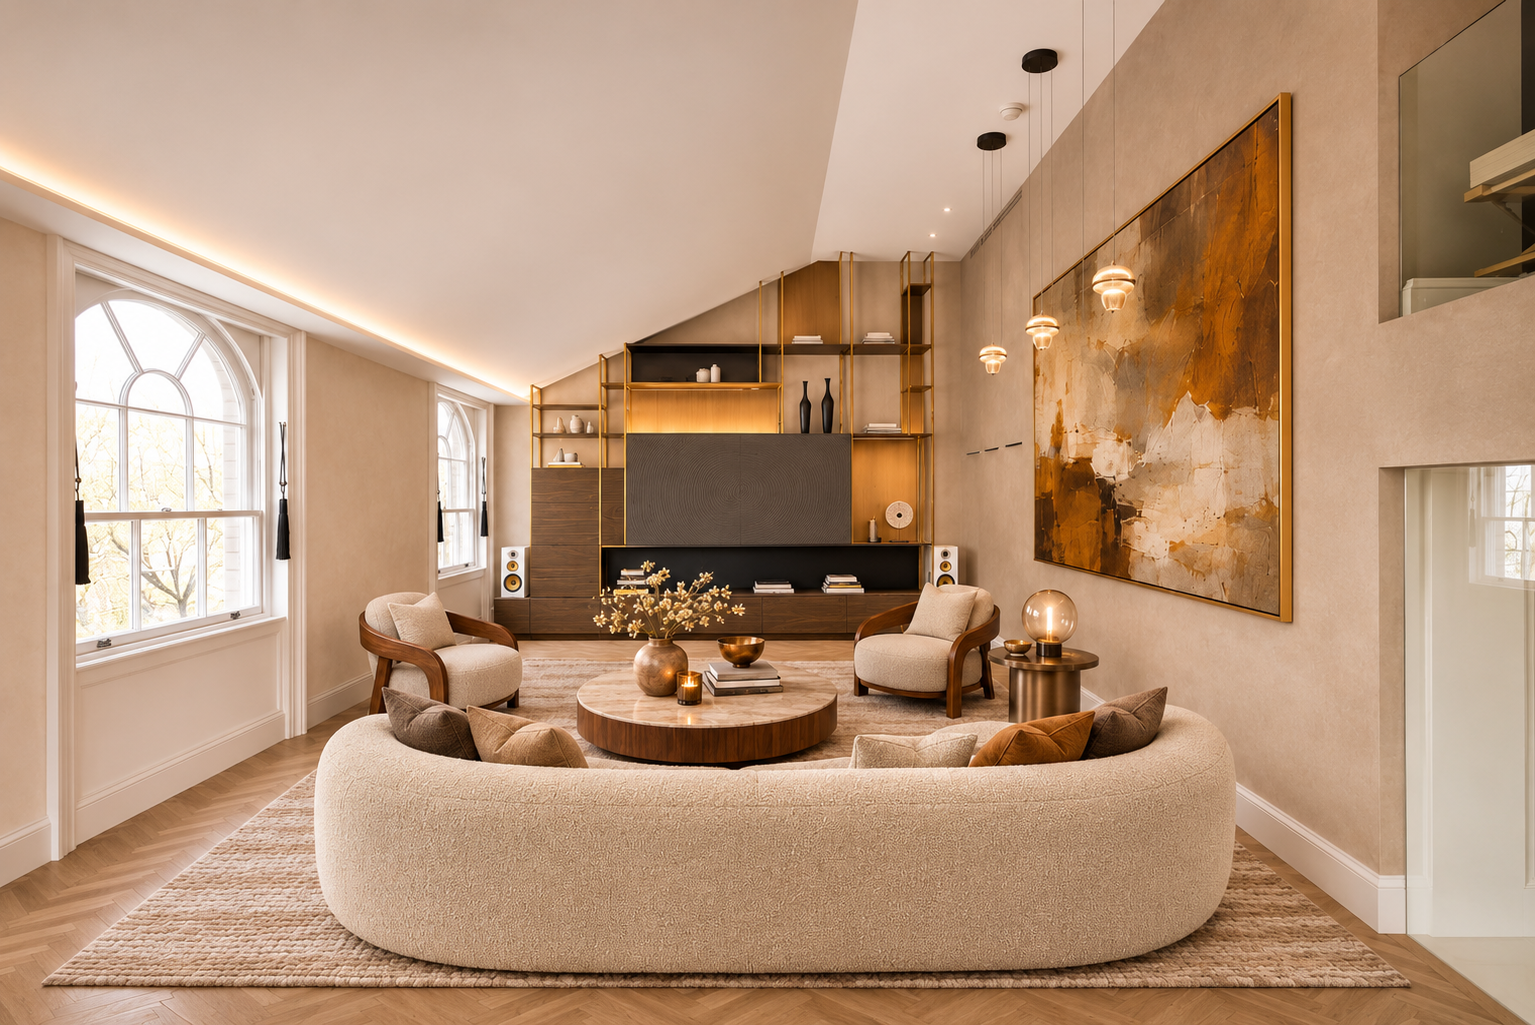
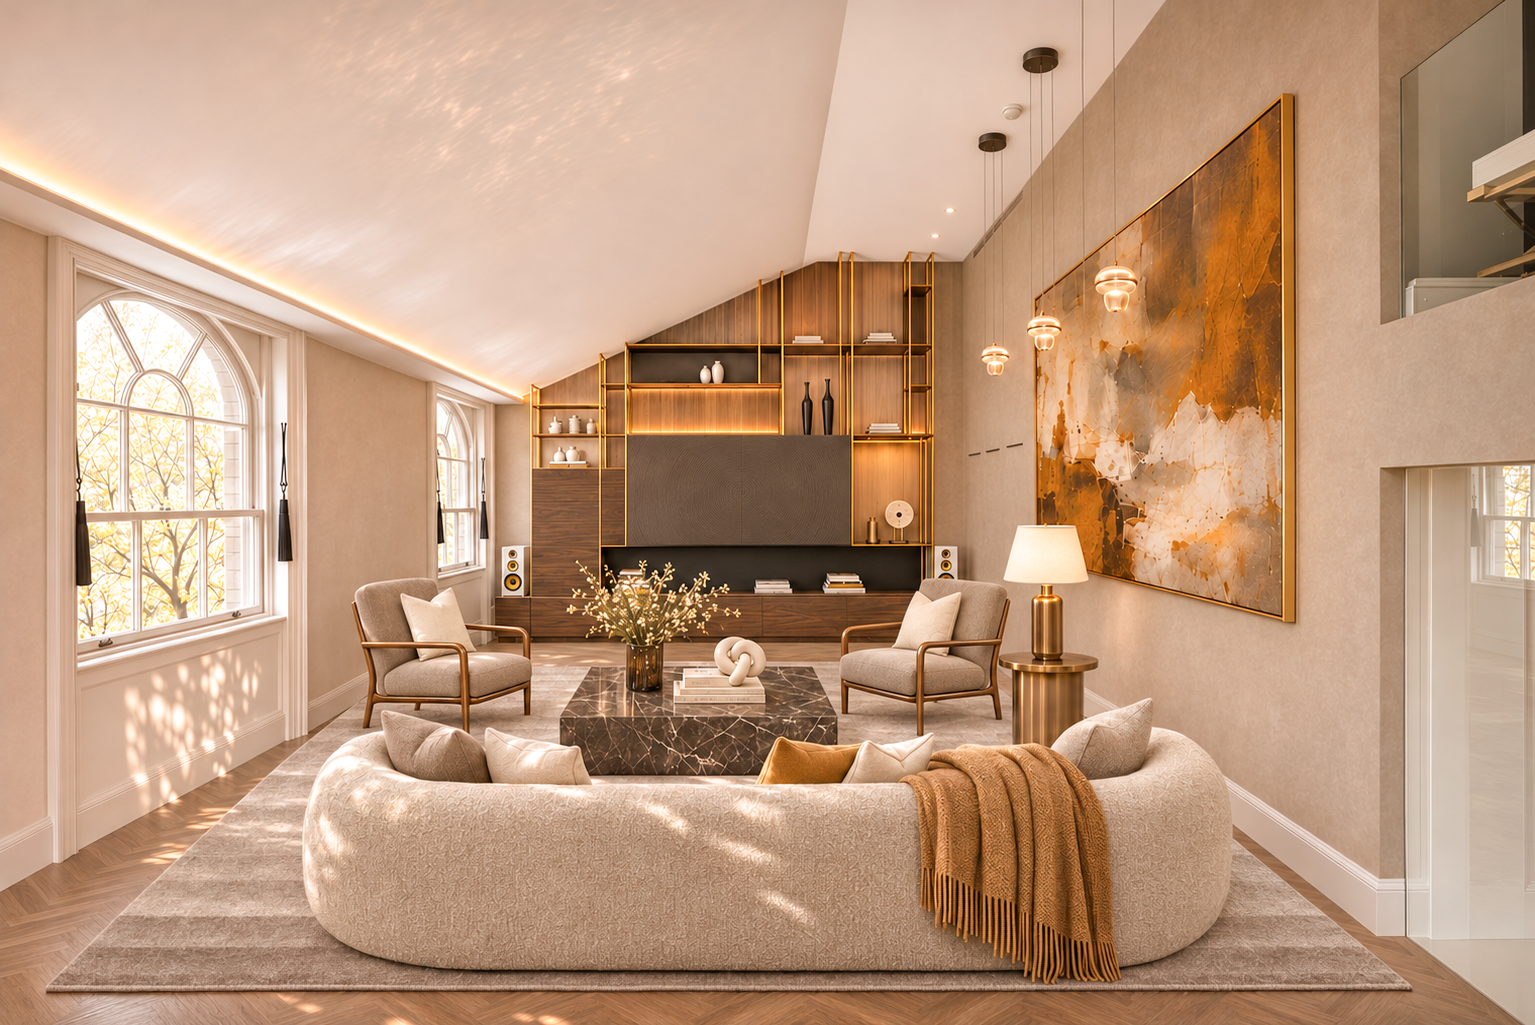
Use final 98 Portland Place renders in brochure and project page
- brochure-src/renders: final renders (Lighter versions of 1.83, 3.7, 5.3,
  7.3, 9.3; 22.3 study).
- brochure.html: re-crop the cover (table and chandelier right of the
  title), kitchen (bring in the staircase), principal bedroom (bed clear of
  the text panel) and study (show the artwork); rewrite the study sentence,
  since the new render has gilded-line walls and a figurative artwork
  rather than an ink-wash wallcovering.
- build.py: also export "98PP Brochure - Print.pdf", A4 at 300 dpi
  (separate 3.125x render); web pages and the screen PDF are unchanged.
- /98pp/: rebuilt from the above.
- Project page: regenerate the living/dining, reception, kitchen and
  study images under new names, update their alt text and the study
  sentence in the body.

diff --git a/brochure-src/brochure.html b/brochure-src/brochure.html
@@ -33,7 +33,7 @@ p{font-size:12.6px;line-height:1.9;color:#4a443d}
 
 <!-- 01 COVER -->
 <div class="page" id="p1">
- <div class="ph" style="inset:0;background-image:url(renders/01-living-dining.png)"></div>
+ <div class="ph" style="inset:0;background-image:url(renders/01-living-dining.png);background-size:auto 960px;background-position:0% 55%"></div>
  <div style="position:absolute;inset:0;background:linear-gradient(90deg,rgba(24,21,18,.86) 0%,rgba(24,21,18,.62) 45%,rgba(24,21,18,.15) 72%,rgba(24,21,18,0) 85%)"></div>
  <div class="frame"></div>
  <div class="eb" style="position:absolute;left:72px;top:70px;color:#d9c29a">Marylebone · London W1</div>
@@ -86,7 +86,7 @@ p{font-size:12.6px;line-height:1.9;color:#4a443d}
 
 <!-- 05 KITCHEN -->
 <div class="page" id="p5">
- <div class="ph" style="right:0;top:0;width:640px;height:794px;background-image:url(renders/07-kitchen-bronze.png);background-size:auto 794px;background-position:48% 50%"></div>
+ <div class="ph" style="right:0;top:0;width:640px;height:794px;background-image:url(renders/07-kitchen-bronze.png);background-size:auto 794px;background-position:59% 50%"></div>
  <div style="position:absolute;left:72px;top:110px;width:350px">
   <div class="eb">Kitchen</div><div class="rule"></div>
   <h2 class="disp" style="font-size:52px">The heart of <i>the home</i></h2><div style="height:22px"></div>
@@ -97,7 +97,7 @@ p{font-size:12.6px;line-height:1.9;color:#4a443d}
 
 <!-- 06 PRINCIPAL BEDROOM -->
 <div class="page" id="p6">
- <div class="ph" style="inset:0;background-image:url(renders/20-principal-bedroom.png);background-position:40% 55%"></div>
+ <div class="ph" style="inset:0;background-image:url(renders/20-principal-bedroom.png);background-size:auto 860px;background-position:0% 55%"></div>
  <div class="box" style="left:56px;bottom:56px">
   <div class="eb">Principal Suite</div><h2 class="disp">A private <i>retreat</i></h2>
   <p>A serene principal bedroom with an upholstered headboard wall and bespoke storage, opening through to its own sitting room and bathroom.</p>
@@ -128,11 +128,11 @@ p{font-size:12.6px;line-height:1.9;color:#4a443d}
 
 <!-- 09 STUDY & GUEST EN SUITE -->
 <div class="page" id="p9" style="background:#fff">
- <div class="ph" style="left:0;top:0;width:561px;height:600px;background-image:url(renders/22-study.png);background-size:auto 600px;background-position:40% 50%"></div>
+ <div class="ph" style="left:0;top:0;width:561px;height:600px;background-image:url(renders/22-study.png);background-size:auto 600px;background-position:12% 50%"></div>
  <div class="ph" style="left:562px;top:0;width:561px;height:600px;background-image:url(renders/14-guest-ensuite.png);background-size:auto 600px;background-position:62% 50%"></div>
  <div style="position:absolute;left:72px;top:636px;width:440px">
   <div class="eb">Study</div>
-  <p style="margin-top:10px">A quiet study landing wrapped in a hand-painted ink-wash landscape wallcovering.</p>
+  <p style="margin-top:10px">A quiet study landing, its walls traced with flowing gilded lines beneath a striking figurative artwork.</p>
  </div>
  <div style="position:absolute;left:634px;top:636px;width:420px">
   <div class="eb">Guest En Suite</div>

diff --git a/brochure-src/build.py b/brochure-src/build.py
@@ -2,41 +2,53 @@
 Usage:  python3 build.py
 Needs:  pip install playwright pillow && python3 -m playwright install chromium
 Output: out/98pp/   (upload this folder to the website as /98pp/)
-        out/98PP Brochure.pdf   (print/email version)
+        out/98PP Brochure.pdf   (email/screen version, 192 dpi)
+        out/98PP Brochure - Print.pdf   (print version, A4 at 300 dpi)
 """
 import asyncio, os, pathlib, shutil, re
 from playwright.async_api import async_playwright
 from PIL import Image
 HERE = pathlib.Path(__file__).resolve().parent
-OUT = HERE / 'out'; WEB = OUT / '98pp'; RAW = OUT / 'raw'
+OUT = HERE / 'out'; WEB = OUT / '98pp'; RAW = OUT / 'raw'; RAW_PRINT = OUT / 'raw-print'
+# Pages are 1123 x 794 CSS px (A4 landscape at 96 px/in). Web pages and the
+# screen PDF render at 2x (192 dpi). The print PDF renders at 300/96 = 3.125x,
+# which makes each page 3509 x 2481 px: A4 (297 x 210 mm) at 300 dpi.
+WEB_SCALE = 2
+PRINT_DPI = 300
+PRINT_SCALE = PRINT_DPI / 96
 
-async def render():
+async def render(scale, dest):
     async with async_playwright() as p:
         b = await p.chromium.launch(executable_path=os.environ.get('CHROME_PATH') or None)
-        pg = await b.new_page(viewport={'width': 1123, 'height': 794}, device_scale_factor=2)
+        pg = await b.new_page(viewport={'width': 1123, 'height': 794}, device_scale_factor=scale)
         await pg.goto((HERE / 'brochure.html').as_uri()); await pg.wait_for_timeout(1500)
         ids = await pg.eval_on_selector_all('.page', 'els => els.map(e => e.id)')
         for i, pid in enumerate(ids, 1):
-            await pg.locator('#' + pid).screenshot(path=str(RAW / f'p{i}.png'))
+            await pg.locator('#' + pid).screenshot(path=str(dest / f'p{i}.png'))
         await b.close()
         return len(ids)
 
 def main():
-    shutil.rmtree(OUT, ignore_errors=True); (WEB / 'pages').mkdir(parents=True); RAW.mkdir()
-    n = asyncio.run(render())
+    shutil.rmtree(OUT, ignore_errors=True); (WEB / 'pages').mkdir(parents=True); RAW.mkdir(); RAW_PRINT.mkdir()
+    n = asyncio.run(render(WEB_SCALE, RAW))
     imgs = []
     for i in range(1, n + 1):
         im = Image.open(RAW / f'p{i}.png').convert('RGB'); imgs.append(im)
         im.resize((1600, 1131), Image.LANCZOS).save(WEB / 'pages' / f'p{i}.jpg', quality=84)
-    imgs[0].save(OUT / '98PP Brochure.pdf', save_all=True, append_images=imgs[1:], resolution=192)
+    imgs[0].save(OUT / '98PP Brochure.pdf', save_all=True, append_images=imgs[1:], resolution=96 * WEB_SCALE)
+    # Print PDF: a separate high-resolution render, used for this file only.
+    asyncio.run(render(PRINT_SCALE, RAW_PRINT))
+    prints = [Image.open(RAW_PRINT / f'p{i}.png').convert('RGB') for i in range(1, n + 1)]
+    prints[0].save(OUT / '98PP Brochure - Print.pdf', save_all=True, append_images=prints[1:],
+                   resolution=PRINT_DPI, quality=95)
     # viewer: one <div class="page"> per page image
     tpl = (HERE / 'viewer' / 'index.template.html').read_text()
     pages = '\n'.join(f'<div class="page"><img src="pages/p{i}.jpg" alt="Page {i}"></div>' for i in range(1, n + 1))
     html = re.sub(r'(<div id="book">).*?(</div></template>)', lambda m: m.group(1) + '\n' + pages + '\n' + m.group(2), tpl, flags=re.S)
     (WEB / 'index.html').write_text(html)
     shutil.copy(HERE / 'viewer' / 'page-flip.js', WEB)
-    shutil.rmtree(RAW)
-    print(f'Built {n} pages -> {WEB} and {OUT / "98PP Brochure.pdf"}')
+    shutil.rmtree(RAW); shutil.rmtree(RAW_PRINT)
+    print(f'Built {n} pages -> {WEB}, {OUT / "98PP Brochure.pdf"} and {OUT / "98PP Brochure - Print.pdf"}')
 
 if __name__ == '__main__':
     main()

diff --git a/src/content/projects/apartment_5_98_portland_place.md b/src/content/projects/apartment_5_98_portland_place.md
@@ -12,9 +12,9 @@ subtitle: "A refurbishment scheme and sales visualisations for an apartment on o
 metaDescription: "A refurbishment scheme and sales visualisations for an apartment on one of Marylebone's grandest streets, moments from Regent's Park."
 statusLabel: Concept
 showInProjects: true
-cardImage: /assets/images/projects/apartment_5_98_portland_place/apartment_5_98_portland_place_01_living_dining.webp
+cardImage: /assets/images/projects/apartment_5_98_portland_place/apartment_5_98_portland_place_01_living_dining_final.webp
 cardAlt: Open-plan living and dining area at Apartment 5, 98 Portland Place, with warm polished plaster walls, light oak herringbone parquet, a round travertine dining table and a gold chandelier
-heroImage: /assets/images/projects/apartment_5_98_portland_place/apartment_5_98_portland_place_01_living_dining.webp
+heroImage: /assets/images/projects/apartment_5_98_portland_place/apartment_5_98_portland_place_01_living_dining_final.webp
 heroAlt: Open-plan living and dining area at Apartment 5, 98 Portland Place, with warm polished plaster walls, light oak herringbone parquet, a round travertine dining table and a gold chandelier
 heroImageType: Design visualisation
 projectTags:
@@ -26,7 +26,7 @@ lead: "Apartment 5 sits on Portland Place, moments from Regent's Park. Ahead of 
 body: |
   Throughout the apartment, the grey wallpaper gives way to warm polished plaster and light oak herringbone parquet. The reception is arranged around a curved sofa beneath the pitched ceiling, and the dining area centres on a travertine table beneath the chandelier. In the kitchen, new hand-patinated bronze doors on the tall units keep the original mirrored glass, behind a waterfall marble island.
 
-  The principal bedroom gains an upholstered headboard wall and a new sitting room, created by enclosing the bedroom terrace beneath a skylight. In the principal bathroom, smoky taupe Venetian plaster and a taupe oak vanity replace the original light oak panelling, alongside white marble, a walk-in shower and a freestanding bath. The study landing is wrapped in a hand-painted ink-wash landscape wallcovering, and the guest en suite gains a walk-in shower in warm, large-format marble.
+  The principal bedroom gains an upholstered headboard wall and a new sitting room, created by enclosing the bedroom terrace beneath a skylight. In the principal bathroom, smoky taupe Venetian plaster and a taupe oak vanity replace the original light oak panelling, alongside white marble, a walk-in shower and a freestanding bath. The study landing's walls are traced with flowing gilded lines beneath a striking figurative artwork, and the guest en suite gains a walk-in shower in warm, large-format marble.
 
   We also designed the digital sales brochure, an interactive page-turning edition styled to suit the apartment.
 previewLink:
@@ -56,11 +56,11 @@ asideText: Planning a similar refresh? Send a short note and I’ll reply with t
 asideCta: Make an enquiry
 gallery:
   images:
-    - image: /assets/images/projects/apartment_5_98_portland_place/apartment_5_98_portland_place_03_reception.webp
-      alt: Reception room at Apartment 5, 98 Portland Place, with a curved bouclé sofa, walnut-framed armchairs and a large abstract painting, with the dining area and chandelier beyond
+    - image: /assets/images/projects/apartment_5_98_portland_place/apartment_5_98_portland_place_03_reception_final.webp
+      alt: Reception room at Apartment 5, 98 Portland Place, with a curved bouclé sofa, brass-framed armchairs, a dark marble coffee table and a large abstract painting, with the dining area and chandelier beyond
       imageType: Design visualisation
-    - image: /assets/images/projects/apartment_5_98_portland_place/apartment_5_98_portland_place_07_kitchen_bronze.webp
-      alt: Kitchen at Apartment 5, 98 Portland Place, with a white stone waterfall island, navy velvet bar stools, patinated bronze wall panels and oak herringbone parquet
+    - image: /assets/images/projects/apartment_5_98_portland_place/apartment_5_98_portland_place_07_kitchen_bronze_final.webp
+      alt: Kitchen at Apartment 5, 98 Portland Place, with a white marble waterfall island, navy velvet bar stools, patinated bronze panels framed in brass and mirrored glass, and a light oak staircase
       imageType: Design visualisation
     - image: /assets/images/projects/apartment_5_98_portland_place/apartment_5_98_portland_place_20_principal_bedroom.webp
       alt: Principal bedroom at Apartment 5, 98 Portland Place, with a full-height upholstered panelled wall behind the bed, a sculptural wall piece and a view through to the sitting room beyond
@@ -71,8 +71,8 @@ gallery:
     - image: /assets/images/projects/apartment_5_98_portland_place/apartment_5_98_portland_place_21_principal_bathroom.webp
       alt: Principal bathroom at Apartment 5, 98 Portland Place, with smoky taupe Venetian plaster, a taupe oak vanity, white marble walk-in shower and freestanding bath
       imageType: Design visualisation
-    - image: /assets/images/projects/apartment_5_98_portland_place/apartment_5_98_portland_place_22_study.webp
-      alt: Study at Apartment 5, 98 Portland Place, with an ink-wash landscape wallcovering, a black lacquered desk and an olive velvet chair
+    - image: /assets/images/projects/apartment_5_98_portland_place/apartment_5_98_portland_place_22_study_final.webp
+      alt: Study at Apartment 5, 98 Portland Place, with walls traced in flowing gilded lines, a large figurative artwork in red, a black lacquered desk and an olive velvet chair
       imageType: Design visualisation
     - image: /assets/images/projects/apartment_5_98_portland_place/apartment_5_98_portland_place_14_guest_ensuite.webp
       alt: Guest en suite at Apartment 5, 98 Portland Place, with a walk-in shower in warm marble and a frameless glass screen

diff --git a/brochure-src/README.md b/brochure-src/README.md
@@ -17,7 +17,8 @@ python3 build.py
 ```
 Output:
 - `out/98pp/` – copy this over the website's `98pp/` folder (served as-is at /98pp/, keep the noindex tag).
-- `out/98PP Brochure.pdf` – print/email version.
+- `out/98PP Brochure.pdf` – email/screen version (192 dpi).
+- `out/98PP Brochure - Print.pdf` – print version, A4 landscape at 300 dpi.
 
 ## Editing tips
 - Open `brochure.html` in a browser to preview all pages stacked.
